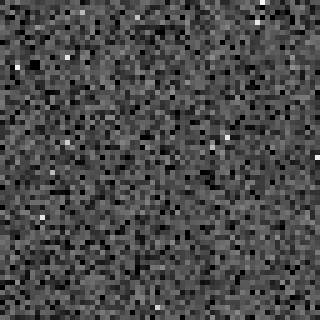
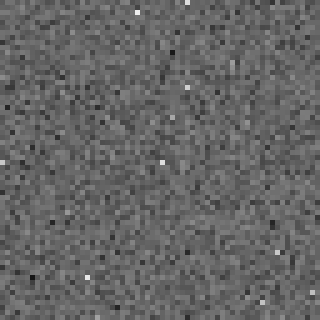
Darks lesson: centre the ROI on the brightest well-removed hot pixel
The previous window (f03, chosen by counting well-removed hot pixels
per 64x64 sky-only window) put the circled pixel near the edge of the
tile and the removal was hard to see at the page's stretch. The script
now scans every well-removed hot pixel in the frame (light - bias more
than 15 MADN above background, light - dark within 2 MADN of it) and
takes the brightest one whose window holds no stars and no dark-only
pixels, then centres the 64x64 window on it. On f13 that is the pixel
at (114, 895), so the circle sits at the tile centre.

The ROI stretch is stronger than before (target background 0.40,
shadows clip -4 MADN) so the grain reads evenly and a dimmed hot pixel
still shows as dimmed rather than vanishing. Saturated hot pixels
overshoot after subtraction by about 3 MADN and print as dark holes,
which the +-2 MADN rule excludes on purpose.

Regenerated: uv run tools/assets/darks_page.py

Claude-Session: https://claude.ai/code/session_01J4C3JsDwFZV1V9RFg1HzMv

diff --git a/tools/assets/darks_page.py b/tools/assets/darks_page.py
@@ -8,10 +8,14 @@ region of the master dark. The bias is applied to every light-frame image on thi
 Bias lesson already covered it; the Darks page never mentions it.
 
 Region choice: the master dark is used exactly as supplied (owner decision 2026-09-24: "trust the
-master dark"). It cancels most hot pixels only partly, so the window is chosen for the clearest removal:
-among 64×64 sky-only windows (no stars, no pixel hotter in the dark than in the light) it holds the most
-"well removed" hot pixels (clearly visible before, within the noise after), then the most shared hot
-pixels. One well-removed pixel is circled on the page; its position is in stats.json.
+master dark"). It cancels most hot pixels only partly (it carries about 37% of their excess in the
+lights), so the window is centred on the brightest "well removed" hot pixel in the frame: bright in the
+light (> 15 MADN above the background) and within 2 MADN of the background after subtraction. In f13
+that is the pixel at (114, 895). (The frame's saturated hot pixels cancel too, but overshoot by about
+3 MADN and print as dark holes, so they are excluded by the ±2 MADN rule.) The window must hold no
+stars and no pixel that is hotter in the dark than in the light. The ROI stretch is stronger than
+Flats-1's (target background 0.40, shadows clip −4 MADN) so the grain reads evenly and a dimmed hot
+pixel still shows as dimmed. The circled pixel's position and values are in stats.json.
 
 Reading column:
   grain_light.png     (L − B) on the region, one AutoSTF (target bg 0.30, clip −1.8 MADN), enlarged ×5
@@ -46,12 +50,12 @@ PRE = REPO / "data" / "derived" / "precompute"
 CAL = REPO / "source_images" / "calibration"
 OUT = REPO / "assets" / "darks"
 
-FRAME = "f03"
+FRAME = "f13"
 DN = 65535.0
 ROI = 64          # native pixels, square
 ZOOM = 5          # nearest-neighbour enlargement for the page (64 × 5 = 320 px)
 BORDER = 64       # keep the window away from the frame edge
-ROI_STF = dict(target_bg=0.30, shadows_clip=-1.8)
+ROI_STF = dict(target_bg=0.40, shadows_clip=-4.0)
 FRAME_STF = dict(target_bg=0.30, shadows_clip=-2.8)
 HOT_DN = 200.0    # a hot pixel: dark − bias above this many pixel-brightness units (65535 = full scale)
 
@@ -100,18 +104,20 @@ def main() -> None:
     star = bright & (nb >= 4)
     dark_only = hot & ((lb - sky_med) < 0.5 * dark_excess)
     shared = hot & bright & ~star
-    good = shared & (lb - sky_med > 12 * sky_madn) & (np.abs((L - D) - sky_med) < 2 * sky_madn)
+    good = shared & (lb - sky_med > 15 * sky_madn) & (np.abs((L - D) - sky_med) < 2 * sky_madn)
     ok = (box_sum(star, ROI) == 0) & (box_sum(dark_only, ROI) == 0)
-    score = np.where(ok, box_sum(good, ROI) * 1000 + box_sum(shared, ROI), -1)
-    score[:BORDER] = -1
-    score[-BORDER:] = -1
-    score[:, :BORDER] = -1
-    score[:, -BORDER:] = -1
-    # among the best windows, take the one whose centre is closest to a well-removed pixel
-    cands = np.argwhere(score == score.max())
-    gy, gx = np.where(good)
-    y0, x0 = min((tuple(c) for c in cands),
-                 key=lambda c: np.min((gy - (c[0] + ROI / 2)) ** 2 + (gx - (c[1] + ROI / 2)) ** 2))
+    best = None
+    for gy, gx in np.argwhere(good):
+        wy = int(np.clip(gy - ROI // 2, BORDER, H - BORDER - ROI))
+        wx = int(np.clip(gx - ROI // 2, BORDER, W - BORDER - ROI))
+        if not ok[wy, wx]:
+            continue
+        key = (float(lb[gy, gx] - sky_med), int(box_sum(shared, ROI)[wy, wx]))
+        if best is None or key > best[0]:
+            best = (key, wy, wx)
+    if best is None:
+        raise SystemExit("no well-removed hot pixel in a clean window")
+    _, y0, x0 = best
     ys, xs = slice(y0, y0 + ROI), slice(x0, x0 + ROI)
 
     raw = lb[ys, xs]                     # L − B
@@ -154,12 +160,12 @@ def main() -> None:
         "frame": FRAME,
         "bias_applied_to_every_light_image": True,
         "region": {"x": int(x0), "y": int(y0), "w": ROI, "h": ROI, "zoom": ZOOM,
-                   "chosen_by": "most well-removed, then most shared hot pixels among 64×64 sky-only windows; centred on a well-removed pixel"},
+                   "chosen_by": "centred on the brightest well-removed hot pixel whose 64×64 window holds no stars and no dark-only pixels"},
         "hot_pixel_definition": {"dark_minus_bias_above_dn": HOT_DN,
                                  "light_minus_bias_above_background_madn": 10},
         "hot_pixels_in_region": {"in_dark": int(hot_roi.sum()), "shared_with_light": int(shared_roi.sum()),
                                  "well_removed": int(good_roi.sum())},
-        "well_removed_definition": "light − bias above background by > 12 MADN, and light − dark within ±2 MADN of it",
+        "well_removed_definition": "light − bias above background by > 15 MADN, and light − dark within ±2 MADN of it",
         "hot_pixels_in_frame": {"in_dark": int(hot.sum()), "shared_with_light": int(shared.sum())},
         "dark_over_light_excess_ratio_percentiles": {
             "p10": float(np.percentile(ratio, 10)), "p50": float(np.percentile(ratio, 50)),
